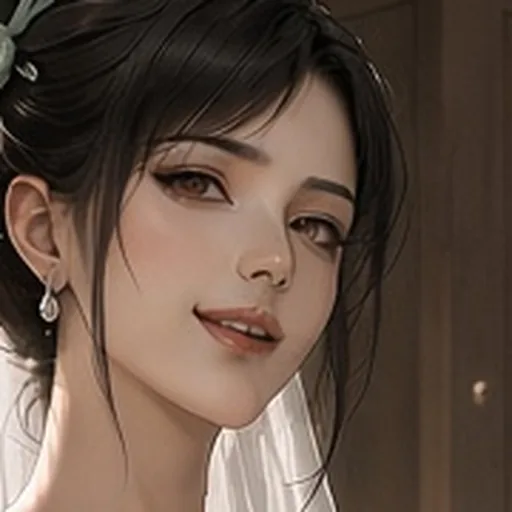
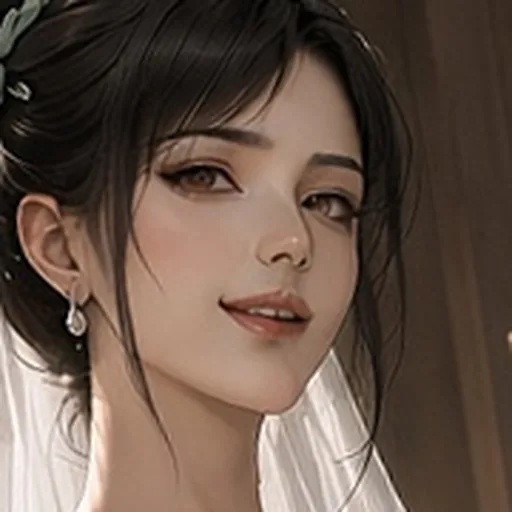
按品阶排列更换角色列表，并扶正月誓棋盘头像
立绘列表只在展示层按现有品阶从高到低排列，同品阶保持原顺序。月誓头像按双眼连线逆时针转正后重裁，HD 与海报不变。

diff --git a/tools/hero-roster.test.js b/tools/hero-roster.test.js
@@ -50,7 +50,7 @@ const RESTORED_PORTRAITS = {
 };
[4 lines of base64/hex data omitted]
 const NEW_FOUR_HEROES = {
   ziling: {
     name: '紫绫影姬',
@@ -113,6 +113,7 @@ const PREVIOUS_IDS = ['lanyi', 'cloak', 'saintess', 'miko', 'shuanghua', 'sweetm
 const ALL_13_IDS = PREVIOUS_IDS.concat(['yueshi', 'ziling', 'honglian', 'molan', 'qinglan']);
 const ALL_15_IDS = ALL_13_IDS.concat(['fenxiao', 'shuangchen']);
 const MAIN = '6c873b5cbed5270ffde62175d059a16521d2bd24';
+const MERGED = '926d09b2171352fe91be532a21b0b737b86678d9';
 const FREE_ADDED = ['yueshi', 'ziling', 'honglian', 'molan', 'qinglan', 'fenxiao', 'shuangchen'];
 const ASSET_UNCHANGED_IDS = ['lanyi', 'cloak', 'saintess', 'miko', 'shuanghua', 'sweetmaid', 'jianghua', 'qingkui', 'honglian', 'molan', 'qinglan'];
[1 lines of base64/hex data omitted]
@@ -370,7 +371,9 @@ assert.strictEqual(yueshi.skill.mainMult, 1.2);
 assert.strictEqual(yueshi.skill.splashMult, 0);
 assert.strictEqual(yueshi.img, 'assets/hero_yueshi_hd.jpg?v=2');
 assert.strictEqual(yueshi.poster, 'assets/hero_yueshi_poster.jpg?v=2');
-assert.strictEqual(yueshi.avatar, 'assets/battle/avatars/yueshi.webp?v=3');
+assert.strictEqual(yueshi.avatar, 'assets/battle/avatars/yueshi.webp?v=4');
+assert.strictEqual(yueshi.avatarPos, '50% 22%');
+assert.strictEqual(yueshi.avatarScale, 2.6);
 assert.strictEqual(read(stripQuery(yueshi.img)).length, 524264);
 assert.ok(!Object.prototype.hasOwnProperty.call(yueshi.skill, 'shield'));
 assert.ok(EXISTING_SKILL_KINDS.has(yueshi.skill.kind));
@@ -378,6 +381,83 @@ assert.deepStrictEqual(currentConfig.HERO_SKILLS.yueshi, yueshi.skill);
 
 const xianIds = heroes.filter((hero) => hero.quality === 'xian').map((hero) => hero.id);
 assert.deepStrictEqual(xianIds, ['lanyi', 'cloak', 'fenxiao', 'shuangchen']);
+
+const mergedConfig = loadConfigSource(git(['show', `${MERGED}:js/config.js`]));
+assert.deepStrictEqual(ids, mergedConfig.HEROES.map((hero) => hero.id), 'HEROES 全局顺序应与 main 一致');
+assert.deepStrictEqual(currentConfig.HERO_SKILLS, mergedConfig.HERO_SKILLS);
+let assetChecks = 0;
+heroes.forEach((hero) => {
+  const prev = mergedConfig.HEROES.find((item) => item.id === hero.id);
+  ['img', 'poster', 'avatar'].forEach((key) => {
+    const rel = stripQuery(hero[key]);
+    const sameBlob = git(['hash-object', '--', rel]).trim() === git(['rev-parse', `${MERGED}:${rel}`]).trim();
+    if (hero.id === 'yueshi' && key === 'avatar') {
+      assert.strictEqual(sameBlob, false, '月誓头像应已扶正');
+      assert.strictEqual(hero.img, prev.img);
+      assert.strictEqual(hero.poster, prev.poster);
+      const kept = Object.assign({}, hero);
+      const oldHero = Object.assign({}, prev);
+      delete kept.avatar;
+      delete oldHero.avatar;
+      assert.deepStrictEqual(kept, oldHero);
+      return;
+    }
+    assert.strictEqual(sameBlob, true, `相对 main 素材被改动：${rel}`);
+    assert.strictEqual(hero[key], prev[key], `${hero.id}.${key} 引用被改动`);
+    assetChecks += 1;
+  });
+});
+assert.strictEqual(assetChecks, 44, '15 组 HD/poster 与其余 14 张头像应与 main 字节一致');
+
+function loadPortraitHeroList() {
+  const sandbox = {
+    window: {},
+    console,
+    performance: { now() { return 0; } },
+    requestAnimationFrame() {},
+    document: {
+      readyState: 'loading',
+      addEventListener() {},
+      getElementById() { return null; },
+      querySelector() { return null; },
+      querySelectorAll() { return []; }
+    }
+  };
+  vm.runInNewContext(text('js/config.js'), sandbox);
+  vm.runInNewContext(text('js/game.js'), sandbox);
+  return sandbox.window.portraitHeroList;
+}
+
+const portraitHeroList = loadPortraitHeroList();
+const portraitIds = Array.from(portraitHeroList(heroes, currentConfig.QUALITIES), (hero) => String(hero.id));
+assert.deepStrictEqual(portraitIds, [
+  'lanyi', 'cloak', 'fenxiao', 'shuangchen',
+  'saintess', 'shuanghua', 'qingkui', 'yueshi',
+  'miko', 'jianghua', 'ziling', 'honglian',
+  'sweetmaid', 'molan', 'qinglan'
+]);
+const beforeOrder = heroes.map((hero) => hero.id);
+portraitHeroList(heroes, currentConfig.QUALITIES);
+assert.deepStrictEqual(heroes.map((hero) => hero.id), beforeOrder);
+const sameTier = [
+  { id: 'late-xian', quality: 'xian' },
+  { id: 'di-a', quality: 'di' },
+  { id: 'early-xian', quality: 'xian' },
+  { id: 'tian-a', quality: 'tian' },
+  { id: 'di-b', quality: 'di' }
+];
+assert.deepStrictEqual(
+  Array.from(portraitHeroList(sameTier, currentConfig.QUALITIES), (hero) => String(hero.id)),
+  ['late-xian', 'early-xian', 'tian-a', 'di-a', 'di-b']
+);
+assert.deepStrictEqual(sameTier.map((hero) => hero.id), ['late-xian', 'di-a', 'early-xian', 'tian-a', 'di-b']);
+assert.ok(text('js/game.js').includes('portraitHeroList(getHeroList())'));
+assert.ok(!text('js/stage-ui.js').includes('portraitHeroList'));
+assert.ok(!text('js/gear.js').includes('portraitHeroList'));
+currentConfig.QUALITIES.forEach((quality, index) => {
+  if (index === 0) return;
+  assert.ok(quality.mult > currentConfig.QUALITIES[index - 1].mult);
+});
 const baseQualities = {};
 baseConfig.HEROES.forEach((hero) => {
   baseQualities[hero.id] = hero.quality;
@@ -773,15 +853,17 @@ assert.ok(css.includes('object-position: center top'));
 assert.match(css, /\.ult-hero-media\s*\{[^}]*object-fit:\s*cover;[^}]*object-position:\s*center top;/);
 assert.match(css, /\.role-card-img\s*\{[^}]*object-fit:\s*cover;[^}]*object-position:\s*center top;/);
 assert.ok(css.includes('MaShanZheng-Role.woff2?v=12'));
-['js/game.js', 'js/stage-ui.js', 'js/gear.js', 'js/equip.js', 'js/titles.js', 'js/no-zoom.js'].forEach((rel) => {
+['js/stage-ui.js', 'js/gear.js', 'js/equip.js', 'js/titles.js', 'js/no-zoom.js'].forEach((rel) => {
   assert.strictEqual(git(['diff', '--stat', BASE, '--', rel]).trim(), '', `${rel} 不应改动`);
 });
+assert.strictEqual(git(['diff', '--stat', MERGED, '--', 'css/style.css', 'js/state.js', 'js/battle.js']).trim(), '');
 
 const index = text('index.html');
 assert.ok(index.includes('css/style.css?v=82'));
-assert.ok(index.includes('js/config.js?v=66'));
+assert.ok(index.includes('js/config.js?v=67'));
 assert.ok(index.includes('js/state.js?v=31'));
 assert.ok(index.includes('js/battle.js?v=34'));
+assert.ok(index.includes('js/game.js?v=44'));
 const battleDiff = git(['diff', '-U0', MAIN, '--', 'js/battle.js']);
 const battleBody = battleDiff.split('\n').filter((line) => (
   (line.startsWith('+') || line.startsWith('-')) && !line.startsWith('+++') && !line.startsWith('---')

diff --git a/js/game.js b/js/game.js
@@ -1339,10 +1339,38 @@
     }
   }
 
+  // 只排更换角色立绘列表。品阶沿用 QUALITIES 从低到高的下标，展示时从高到低；同品阶保持 HEROES 原顺序。不改全局数组。
+  function portraitHeroList(heroes, qualities) {
+    const rank = {};
+    const qualityList = qualities || QUALITIES || [];
+    for (let i = 0; i < qualityList.length; i++) {
+      const item = qualityList[i];
+      if (item && item.id) rank[item.id] = i;
+    }
+    const source = heroes || [];
+    const decorated = [];
+    for (let i = 0; i < source.length; i++) {
+      decorated.push({ hero: source[i], index: i });
+    }
+    decorated.sort((a, b) => {
+      const aq = a.hero && a.hero.quality;
+      const bq = b.hero && b.hero.quality;
+      const ra = Object.prototype.hasOwnProperty.call(rank, aq) ? rank[aq] : -1;
+      const rb = Object.prototype.hasOwnProperty.call(rank, bq) ? rank[bq] : -1;
+      if (ra !== rb) return rb - ra;
+      return a.index - b.index;
+    });
+    const ordered = [];
+    for (let i = 0; i < decorated.length; i++) ordered.push(decorated[i].hero);
+    return ordered;
+  }
+
+  window.portraitHeroList = portraitHeroList;
+
   function renderRoleList() {
     const box = els.roleList || document.getElementById('role-list');
     if (!box) return;
-    const heroes = getHeroList();
+    const heroes = portraitHeroList(getHeroList());
     const activeHero = resolveHero(GameState.state && GameState.state.heroId);
     box.innerHTML = '';
 

diff --git a/index.html b/index.html
@@ -575,14 +575,14 @@
   </div>
 
   <script src="js/no-zoom.js?v=22"></script>
-  <script src="js/config.js?v=66"></script>
+  <script src="js/config.js?v=67"></script>
   <script src="js/equip.js?v=22"></script>
   <script src="js/state.js?v=31"></script>
   <script src="js/titles.js?v=23"></script>
   <script src="js/battle.js?v=34"></script>
   <script src="js/gear.js?v=30"></script>
   <script src="js/stage-ui.js?v=49"></script>
-  <script src="js/game.js?v=43"></script>
+  <script src="js/game.js?v=44"></script>
 </body>
 
 </html>

diff --git a/js/config.js b/js/config.js
@@ -1086,7 +1086,7 @@
         name: '月誓灵姝',
         quality: 'tian',
         unlockCond: '踏入仙途（初始免费解锁）',
-        avatar: 'assets/battle/avatars/yueshi.webp?v=3',
+        avatar: 'assets/battle/avatars/yueshi.webp?v=4',
         avatarPos: '50% 22%',
         avatarScale: 2.6,
         img: 'assets/hero_yueshi_hd.jpg?v=2',
